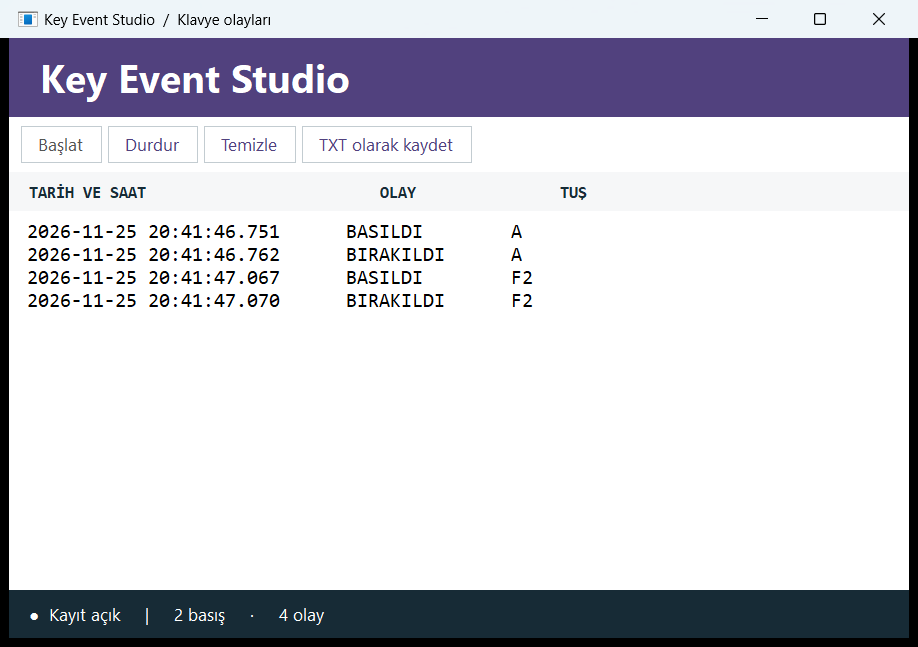
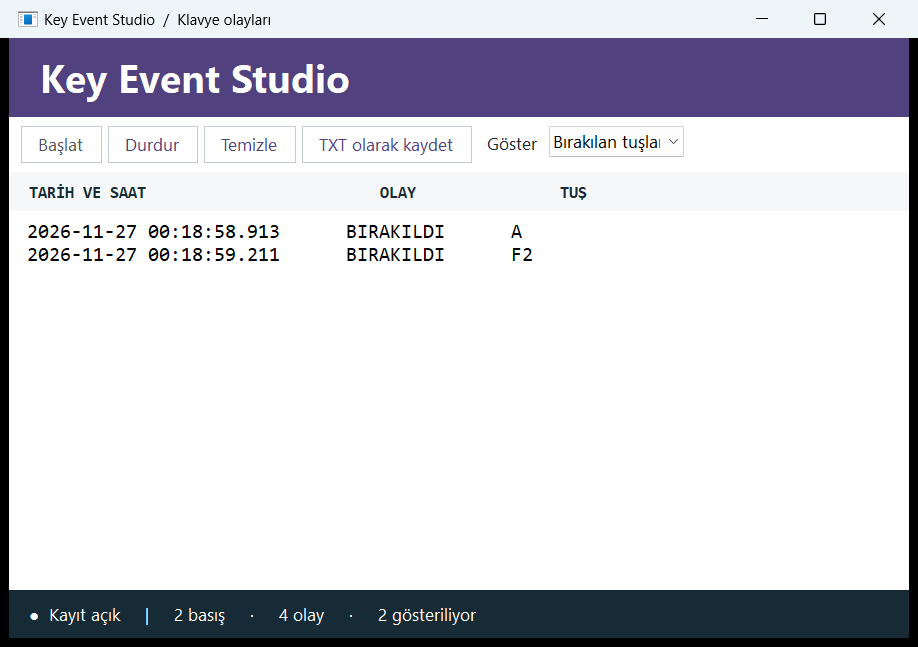
Yeni kullanım adımlarını ve güncel pencere görüntülerini belgele

diff --git a/README.md b/README.md
@@ -28,6 +28,8 @@ Visual Studio'da .NET 10 destekli bir sürüm ve **.NET masaüstü geliştirme**
 2. `BASILDI` ve `BIRAKILDI` satırlarının tarihini, milisaniyesini ve tuş adını karşılaştırın. Basış sayacı yalnız ilk `KeyDown` olayında artar.
 3. **Durdur** ile kaydı kapatın. **TXT olarak kaydet** ile hedefi seçin. **Temizle** listedeki kayıtları kaldırır.
 
+Göster listesinden basışları, bırakmaları veya tüm olayları seçebilirsiniz. Alt çubuk toplam ve görünen olay sayılarını ayrı gösterir. TXT çıktısı filtre seçimine bakılmaksızın tüm oturumu içerir.
+
 ## Sınıflar ve sorumluluklar
 
 `KeyJournal` basılı tuş kümesini, olay listesini, sayacı ve dışa aktarmayı yönetir. `MainForm` odağın kaybında basılı tuş kümesini sıfırlar. Başka bir pencerede bırakılan tuş için bir bırakma olayı üretilmez.
@@ -36,7 +38,7 @@ Visual Studio'da .NET 10 destekli bir sürüm ve **.NET masaüstü geliştirme**
 
 ![Kayıt durdurulmuş ve liste boş](docs/ekran-1.png)
 
-![İki basışın dört olayı](docs/ekran-2.png)
+![İki basıştan sonra bırakma filtresinde iki satır](docs/ekran-2.png)
 
 ## Test ve bilinen sınırlamalar
 
